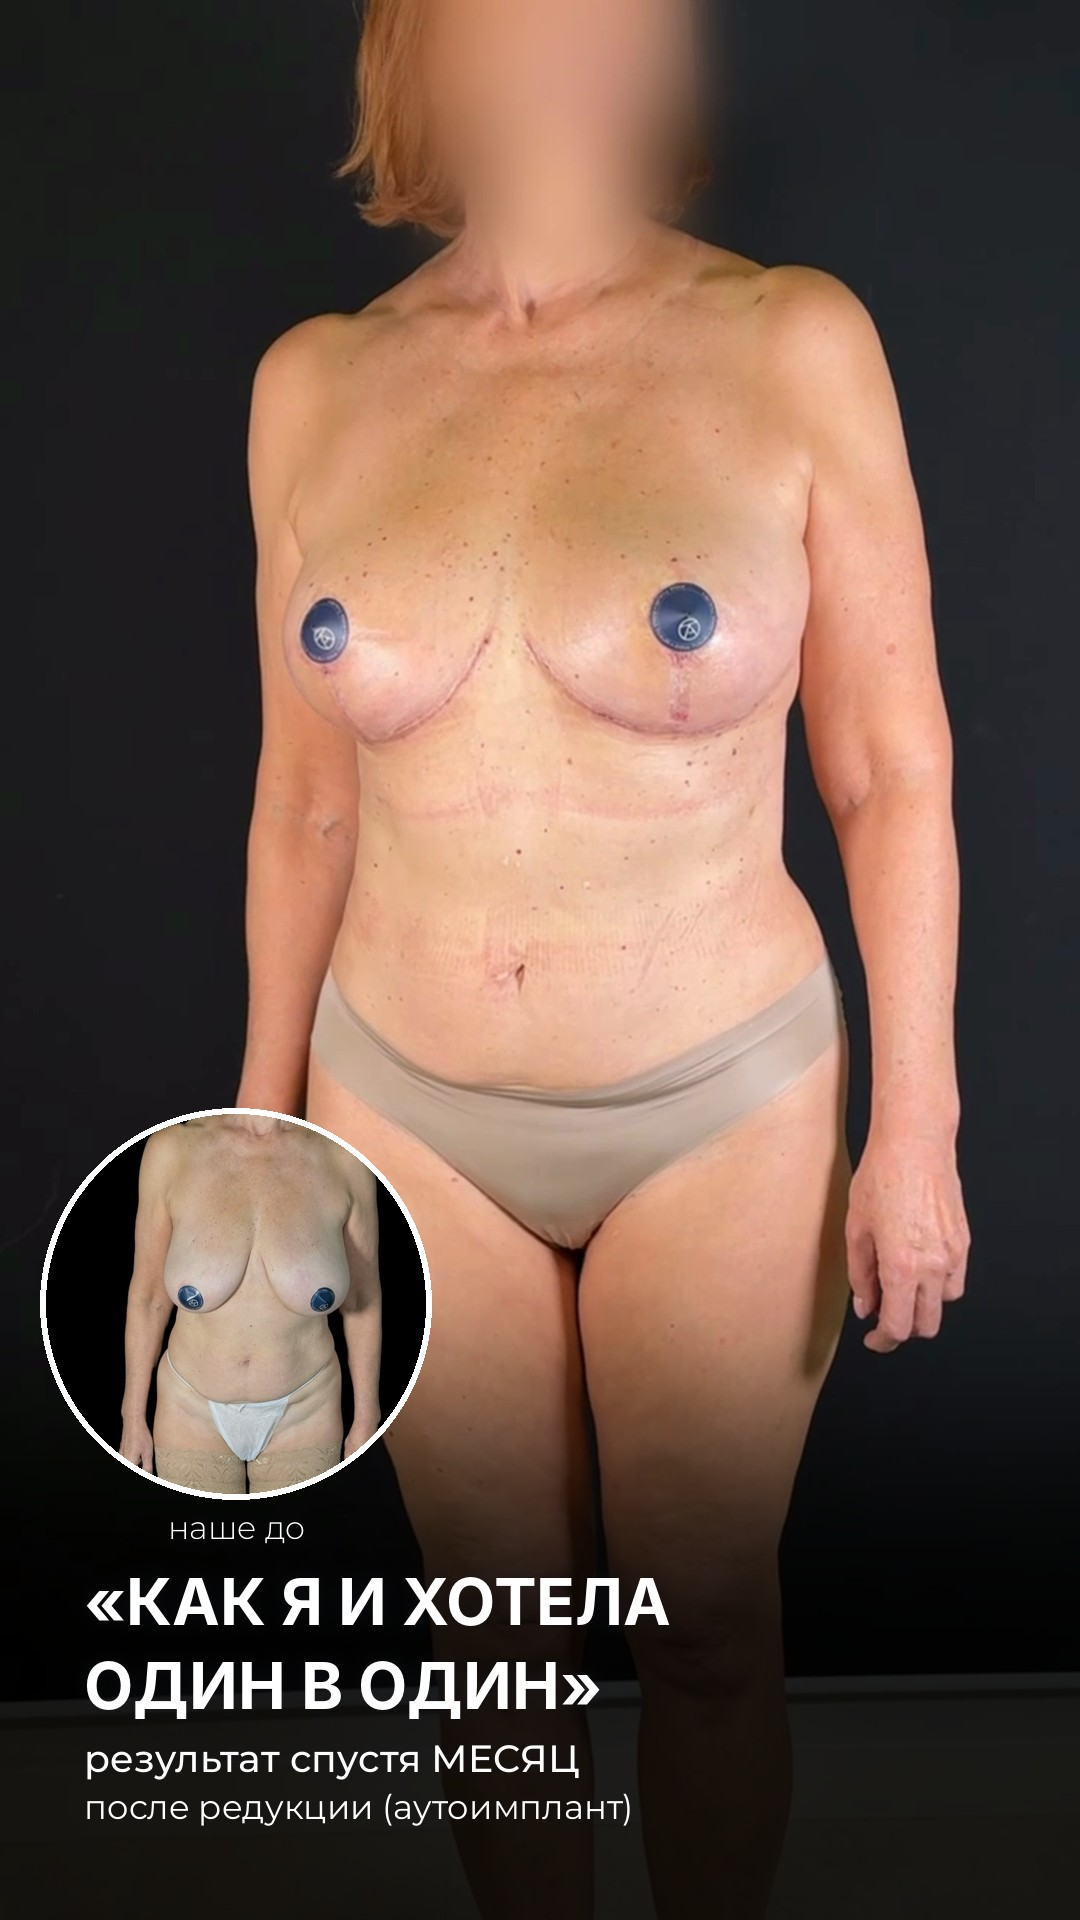
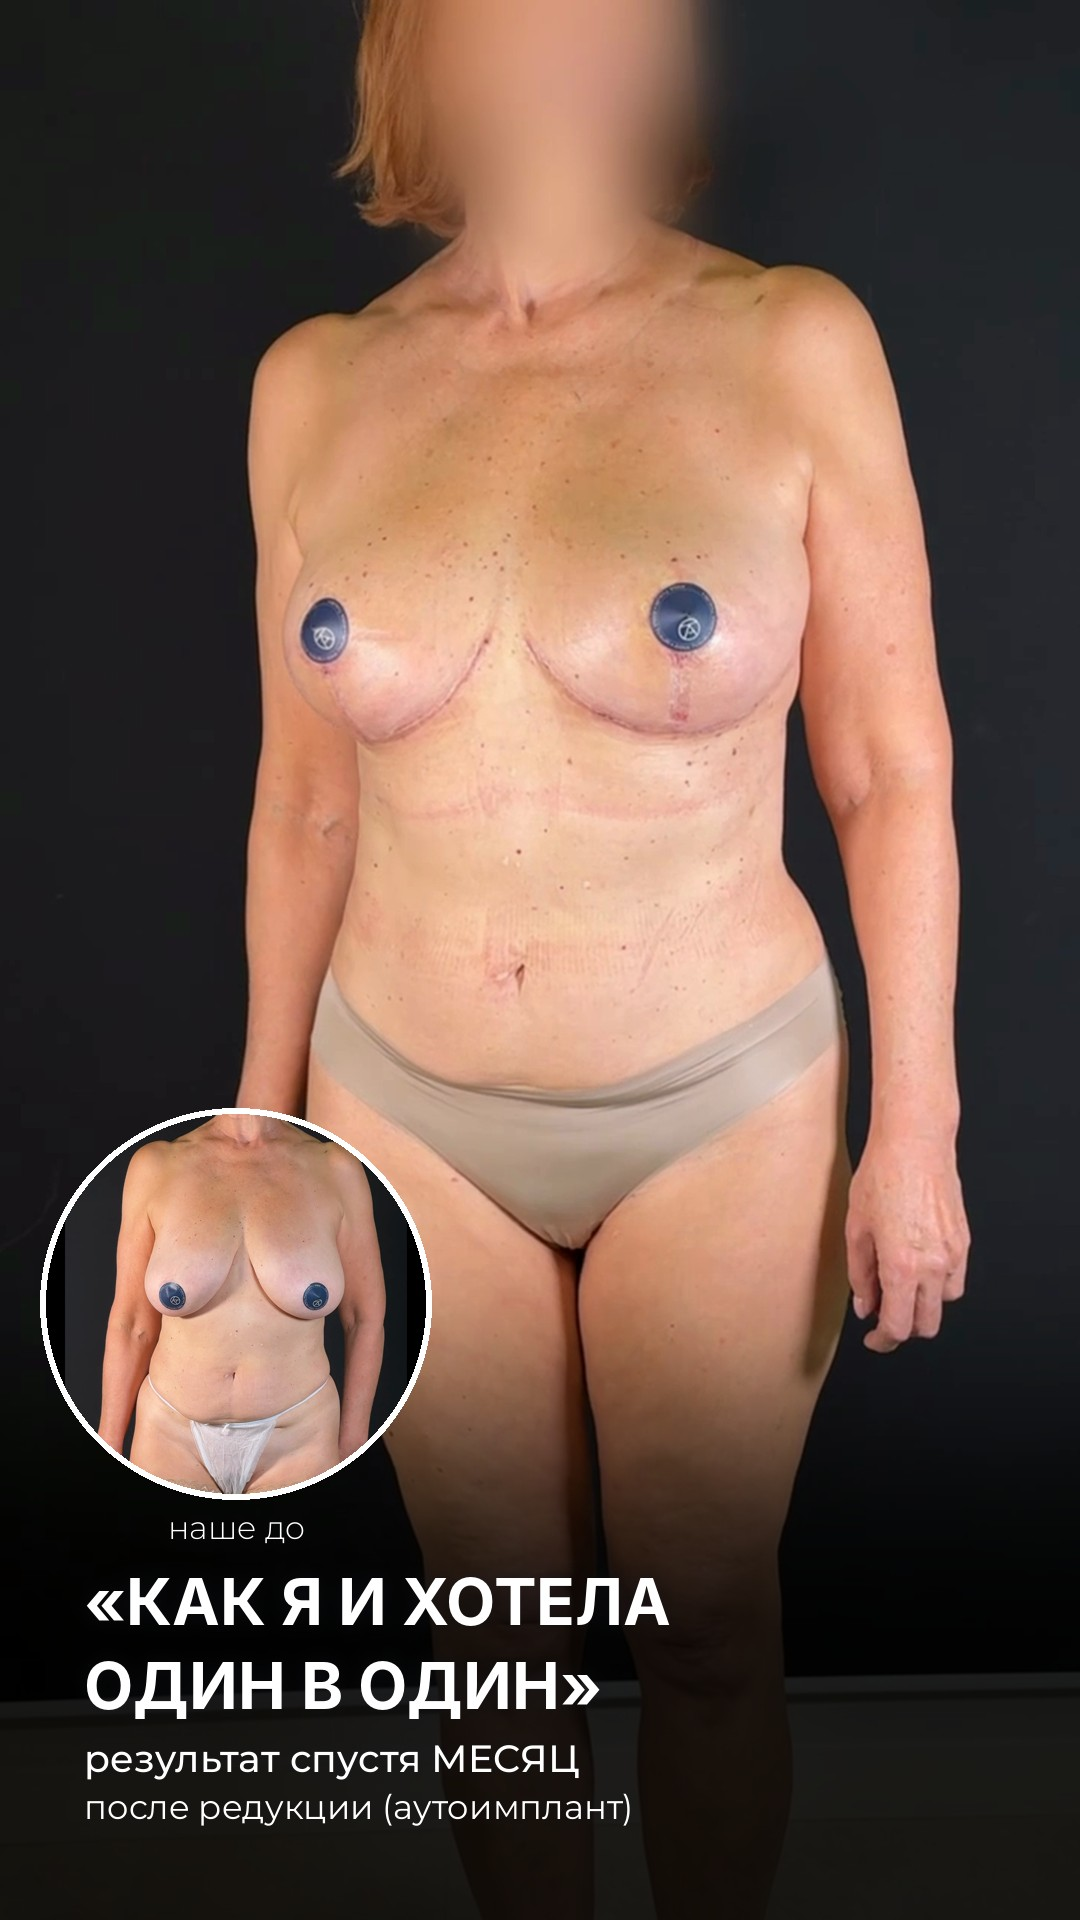
Reduction one-month stories: turning before video in the circle, surgeon video with the thesis, slider neck to knees on the whole screen
Claude-Session: https://claude.ai/code/session_01DoBoRz2HUe4yvMBz6dWv4L

Changed region(s): [[0.0611, 0.5625, 0.3972, 0.7812]]

diff --git a/tools/stories_reduction_month.py b/tools/stories_reduction_month.py
@@ -81,29 +81,31 @@ def s1():
     top = H - 90 - sum(s for _, _, s in lines)
     if not NOTEXT: shadowed_text(lines, MARGIN, top, ly)
     shade = fade(top + 40, 380, 0.85) if not NOTEXT else np.zeros((H, 1, 1), np.float32)
-    # «наше до»: low on the left, above the text. The before body turns with her: front, then 3/4, then side (the
-    # clinic's before photos; 3/4 and side mirrored, she turns her right side to the camera here)
+    # «наше до»: low on the left, above the text: the before video (IMG_0713) in the circle, turning with her.
+    # Her angles: here front 0-4 s, side at 9 s, back at 13.5 s (abs 17.5 / 26.5 / 31 s of IMG_2047);
+    # in IMG_0713 front 9.6-10.4 s, side 16.7 s, back 21.5 s -> piecewise-linear time map
     D = 380; R = D // 2 + 6
-    views = [photo("IMG_9150.PNG").crop((115, 1255, 1115, 2255)),
-             ImageOps.mirror(photo("IMG_9151.PNG").crop((-45, 1255, 955, 2255))),
-             ImageOps.mirror(photo("IMG_9152.PNG").crop((170, 1255, 1170, 2255)))]
-    m = Image.new("L", (D, D), 0); ImageDraw.Draw(m).ellipse((0, 0, D - 1, D - 1), fill=255)
-    rings = []
-    for v in views:
-        c = Image.new("RGBA", (D + 12, D + 12), (0, 0, 0, 0)); ImageDraw.Draw(c).ellipse((0, 0, D + 11, D + 11), fill=WHITE + (255,))
-        ph = v.resize((D, D), Image.LANCZOS).convert("RGBA"); ph.putalpha(m); c.alpha_composite(ph, (6, 6))
-        rings.append(np.asarray(c, np.float32) / 255)
+    raw = subprocess.run(["ffmpeg", "-v", "error", "-i", os.path.join(DRIVE, "IMG_0713.MOV"),
+                          "-vf", f"crop=2400:2400:-120:300,scale={D}:{D},fps={FPS}", "-f", "rawvideo", "-pix_fmt", "rgb24", "-"],
+                         capture_output=True).stdout
+    if not raw:                                             # crop larger than the frame: pad first
+        raw = subprocess.run(["ffmpeg", "-v", "error", "-i", os.path.join(DRIVE, "IMG_0713.MOV"),
+                              "-vf", f"pad=2400:ih:120:0,crop=2400:2400:0:300,scale={D}:{D},fps={FPS}", "-f", "rawvideo",
+                              "-pix_fmt", "rgb24", "-"], capture_output=True).stdout
+    bvid = np.frombuffer(raw, np.uint8).reshape(-1, D, D, 3)
+    MAP = [(0.0, 9.6), (4.0, 10.4), (9.0, 16.7), (13.5, 21.5), (15.6, 23.6)]
+    ring = Image.new("RGBA", (D + 12, D + 12), (0, 0, 0, 0)); ImageDraw.Draw(ring).ellipse((0, 0, D + 11, D + 11), fill=WHITE + (255,))
+    ring = np.asarray(ring, np.float32) / 255
+    m = Image.new("L", (D, D), 0); ImageDraw.Draw(m).ellipse((0, 0, D - 1, D - 1), fill=255); m = np.asarray(m, np.float32)[..., None] / 255
     ccx, ccy = 40, (top - 64 - (D + 12)) if not NOTEXT else H - 120 - (D + 12)
     if not NOTEXT:
         f32 = mont(32, 300); shadowed_text([("наше до", f32, 44)], ccx + R - int(f32.getlength("наше до")) // 2, ccy + D + 18, ly)
-    TURN = [(4.3, 5.3, 0, 1), (8.0, 9.0, 1, 2)]           # seconds of this clip: front -> 3/4 (abs 22-23 s), 3/4 -> side (25.5-26.5 s)
 
     def ring_at(t):
-        k = 0
-        for a, b, i0, i1 in TURN:
-            if t >= b: k = i1
-            elif t > a: q = (t - a) / (b - a); return rings[i0] * (1 - q) + rings[i1] * q
-        return rings[k]
+        tb = np.interp(t, [a for a, _ in MAP], [b for _, b in MAP])
+        fr = bvid[min(int(tb * FPS), len(bvid) - 1)].astype(np.float32) / 255
+        out = ring.copy(); out[6:6 + D, 6:6 + D, :3] = out[6:6 + D, 6:6 + D, :3] * (1 - m) + fr * m
+        return out
     ov = np.asarray(ly, np.float32) / 255; oa = ov[..., 3:4]
     p = subprocess.Popen(["ffmpeg", "-v", "error", "-i", src, "-vf", f"scale={W}:{H}:flags=lanczos,fps={FPS}", "-f", "rawvideo",
                           "-pix_fmt", "rgb24", "-"], stdout=subprocess.PIPE)
@@ -129,21 +131,37 @@ def s1():
 
 # ---------------- story 2: the thesis ----------------
 def s_thesis():
-    """the way to the dream began with this before: the before body on top, the autoimplant method in a few key words"""
-    hb = ImageFont.truetype(BOLD, 52); b = mont(32, 400); bm = mont(32, 600)
-    lines = [("ПУТЬ К МЕЧТЕ", hb, 62), ("НАЧАЛСЯ С ТАКОГО ДО", hb, 80),
-             ("Гигантомастия: от яремной вырезки до соска 32 см.", b, 56),
-             ("Уменьшение груди методом аутоимпланта", bm, 44), ("(метод Рибейро):", bm, 54),
-             ("из собственных тканей нижней части груди", b, 42), ("формируем «аутоимплант» и поднимаем его вверх.", b, 42),
-             ("Он наполняет верхний полюс и держит форму,", b, 42), ("красивый объём без силиконового импланта.", b, 54),
-             ("Сосок с ареолой выше, форма симметричная,", b, 42), ("ткани сохраняем по максимуму.", b, 42)]
-    top = H - 80 - sum(s for _, _, s in lines)
-    body = photo("IMG_9150.PNG").crop((115, 1255, 1115, 2343))                 # the before: neck to the stockings
-    ah = top - 60 - 60; sc = ah / body.height; body = body.resize((int(body.width * sc), ah), Image.LANCZOS)
-    cv = Image.new("RGB", (W, H), (0, 0, 0)); cv.paste(body, ((W - body.width) // 2, 60)); cv = cv.convert("RGBA")
+    """the surgeon at the marking (her own words: gigantomastia, 32 cm, the Ribeiro / autoimplant method) with the thesis
+    low under the usual fade; the clinic's word captions of that video stay"""
+    src = os.path.join(DRIVE, "surgeon_crop.mp4"); out = os.path.join(OUT, "02_put_k_mechte.mp4"); tmp = out + ".v.mp4"
+    dur = float(subprocess.run(["ffprobe", "-v", "error", "-show_entries", "format=duration", "-of", "csv=p=0", src],
+                               capture_output=True, text=True).stdout)
+    hb = ImageFont.truetype(BOLD, 52); b = mont(31, 400); bm = mont(31, 600)
+    lines = [("ПУТЬ К МЕЧТЕ", hb, 62), ("НАЧАЛСЯ С ТАКОГО ДО", hb, 78),
+             ("Гигантомастия: от яремной вырезки до соска 32 см.", b, 54),
+             ("Уменьшение груди методом аутоимпланта", bm, 42), ("(метод Рибейро):", bm, 52),
+             ("из собственных тканей нижней части груди", b, 41), ("формируем «аутоимплант» и поднимаем его вверх.", b, 41),
+             ("Он наполняет верхний полюс и держит форму,", b, 41), ("красивый объём без силиконового импланта.", b, 52),
+             ("Сосок с ареолой выше, форма симметричная,", b, 41), ("ткани сохраняем по максимуму.", b, 41)]
+    top = H - 70 - sum(s for _, _, s in lines)
     ly = Image.new("RGBA", (W, H), (0, 0, 0, 0)); shadowed_text(lines, MARGIN, top, ly)
-    p_ = pill("наше до", 28); ly.alpha_composite(p_, ((W - body.width) // 2 + 24, 84))
-    cv.alpha_composite(ly); out = os.path.join(OUT, "02_put_k_mechte.jpg"); cv.convert("RGB").save(out, quality=94); print("wrote", out)
+    ov = np.asarray(ly, np.float32) / 255; oa = ov[..., 3:4]; shade = fade(top + 40, 420, 0.88)
+    p = subprocess.Popen(["ffmpeg", "-v", "error", "-i", src, "-vf", f"scale={W}:{H},fps={FPS}", "-f", "rawvideo", "-pix_fmt", "rgb24", "-"],
+                         stdout=subprocess.PIPE)
+    enc = subprocess.Popen(["ffmpeg", "-v", "error", "-y", "-f", "rawvideo", "-pix_fmt", "rgb24", "-s", f"{W}x{H}", "-r", str(FPS), "-i", "-",
+                            "-c:v", "libx264", "-crf", "18", "-preset", "medium", "-pix_fmt", "yuv420p", tmp], stdin=subprocess.PIPE)
+    last = None
+    for i in range(int(round(dur * FPS))):
+        bb = p.stdout.read(W * H * 3)
+        if len(bb) == W * H * 3: last = np.frombuffer(bb, np.uint8).reshape(H, W, 3)
+        fr = last.astype(np.float32) / 255 * (1 - shade); fr = fr * (1 - oa) + ov[..., :3] * oa
+        o = (fr * 255).astype(np.uint8); enc.stdin.write(o.tobytes())
+        if i == int(6 * FPS): Image.fromarray(o).save(out[:-4] + ".jpg", quality=90)
+    p.kill(); enc.stdin.close(); enc.wait()
+    subprocess.run(["ffmpeg", "-v", "error", "-y", "-i", tmp, "-i", src, "-map", "0:v", "-map", "1:a", "-c:v", "copy",
+                    "-af", f"loudnorm=I=-16:TP=-1.5,afade=t=out:st={dur - 0.4:.2f}:d=0.4", "-c:a", "aac", "-b:a", "160k",
+                    "-shortest", "-movflags", "+faststart", out], check=True)
+    os.remove(tmp); print("wrote", out, flush=True)
 
 
 # ---------------- story 3 ----------------
@@ -156,7 +174,7 @@ def fit_band(img, area=AREA):
     cv = Image.new("RGB", (W, H), (0, 0, 0)); cv.paste(im, ((W - im.width) // 2, area[0])); return np.asarray(cv, np.float32) / 255
 
 
-BODY = (110, 1663)            # the before / after bodies large: neck to mid-thigh across the whole width; button room below
+BODY = (0, H)                 # the before / after bodies on the whole screen: neck down to the knees
 
 
 def month_collage(after_name, after_crop, week_name):
@@ -184,8 +202,13 @@ def s2():
     out = os.path.join(OUT, f"03_do_posle{SUF}.mp4"); tmp = out + ".v.mp4"
     # same framing for both: neck to fingertips (before: neck 1270 .. fingertips 2190 in IMG_9150;
     # after: neck 70 .. fingertips 1540 in IMG_2029 -> scale 0.626), body centred
-    before = fit_band(photo("IMG_9150.PNG").crop((235, 1250, 995, 2343)), BODY)        # all of the before photo, arms in
-    after = fit_band(on_black("IMG_2029.JPG").crop((183, 38, 1397, 1784)), BODY)        # the same framing /0.626
+    # before: the frontal frame of the before video (IMG_0713 at 10.0 s: neck 384, fingertips 2750, axis x 1080), from
+    # under the chin to the bottom of the frame (the knees); after: IMG_2029 (neck 70, fingertips 1540, axis 790) at /1.61
+    fb = subprocess.run(["ffmpeg", "-v", "error", "-ss", "10.0", "-i", os.path.join(DRIVE, "IMG_0713.MOV"), "-frames:v", "1",
+                         "-f", "image2pipe", "-vcodec", "png", "-"], capture_output=True).stdout
+    import io
+    before = fit_band(Image.open(io.BytesIO(fb)).convert("RGB").crop((93, 330, 2067, 3840)), BODY)
+    after = fit_band(photo("IMG_2029.JPG").crop((177, 37, 1403, 2217)), BODY)
     labs = {k: np.asarray(pill(k, 30), np.float32) / 255 for k in ["до", "после"]}
     week = [photo(n) for n in ["IMG_9150.PNG", "IMG_9151.PNG", "IMG_9152.PNG"]]
     month = [month_collage("IMG_2029.JPG", (78, 60, 1502, 1500), "IMG_9150.PNG"),
@@ -208,13 +231,13 @@ def s2():
             xs = int(W * p)                                       # the slider moves left -> right, the after takes over
             fr = before.copy(); fr[:, :xs] = after[:, :xs]
             if 0 < p < 1:                                         # the handle: thin white line + a ring with arrows
-                fr[BODY[0]:BODY[1], max(xs - 2, 0):xs + 2] = 1.0
+                fr[BODY[0]:BODY[1], max(xs - 2, 0):xs + 2] = 1.0              # the slider line, top to bottom
                 ring = Image.new("RGBA", (84, 84), (0, 0, 0, 0)); d = ImageDraw.Draw(ring)
                 d.ellipse((2, 2, 81, 81), outline=WHITE + (255,), width=4, fill=(0, 0, 0, 90))
                 d.polygon([(30, 42), (40, 32), (40, 52)], fill=WHITE + (255,)); d.polygon([(54, 42), (44, 32), (44, 52)], fill=WHITE + (255,))
                 blit(fr, np.asarray(ring, np.float32) / 255, min(max(xs - 42, 0), W - 84), (BODY[0] + BODY[1]) // 2 - 42)
-            if p < 1 and not NOTEXT: blit(fr, labs["до"], W - 40 - labs["до"].shape[1], BODY[0] + 24)
-            if p > 0 and not NOTEXT: blit(fr, labs["после"], 40, BODY[0] + 24)
+            if p < 1 and not NOTEXT: blit(fr, labs["до"], W - 40 - labs["до"].shape[1], BODY[0] + 60)
+            if p > 0 and not NOTEXT: blit(fr, labs["после"], 40, BODY[0] + 60)
         else:
             tc = t - (T_B + T_S + T_A); k = min(int(tc // T_C), len(slides) - 1); lt = tc - k * T_C
             fr = slides[k].copy()

diff --git a/stories_reduction_month/README.md b/stories_reduction_month/README.md
@@ -5,9 +5,9 @@
 
 | № | Файл | Что |
 |---|------|-----|
-| 1 | 01_odin_v_odin.mp4 | видео через месяц (IMG_2047) с 0:17,5 — начинается с прямого ракурса, лицо размыто, голос мягко изменён; кружок «наше до» слева внизу над текстом: тело ДО поворачивается вместе с ней (прямо → 3/4 → сбоку, фото клиники; 3/4 и бок отзеркалены, т.к. на видео она поворачивается правым боком); «КАК Я И ХОТЕЛА ОДИН В ОДИН» / результат спустя МЕСЯЦ / после редукции (аутоимплант) |
-| 2 | 02_put_k_mechte.jpg | тезис: ПУТЬ К МЕЧТЕ НАЧАЛСЯ С ТАКОГО ДО; гигантомастия (32 см от яремной вырезки до соска, из видео разметки IMG_6972); метод аутоимпланта (Рибейро) по ключевым словам |
-| 3 | 03_do_posle.mp4 | ДО → ползунок → ПОСЛЕ крупно, на всю ширину (всё фото ДО: от шеи до середины бедра, руки целиком), затем коллажи на весь экран: «через неделю» и «через месяц»; внизу место под кнопку |
+| 1 | 01_odin_v_odin.mp4 | видео через месяц (IMG_2047) с 0:17,5 — с прямого ракурса, лицо размыто, голос мягко изменён; кружок «наше до» слева внизу: видео ДО (IMG_0713), где она так же поворачивается — время подогнано, чтобы прямо / бок / спина совпадали; «КАК Я И ХОТЕЛА ОДИН В ОДИН» / результат спустя МЕСЯЦ / после редукции (аутоимплант) |
+| 2 | 02_put_k_mechte.mp4 | видео разметки с хирургом (IMG_6972, 0–31 с, голос хирурга; верх кадра обрезан, чтобы не было лица пациентки) + тезис: ПУТЬ К МЕЧТЕ НАЧАЛСЯ С ТАКОГО ДО, гигантомастия 32 см, метод аутоимпланта (Рибейро) |
+| 3 | 03_do_posle.mp4 | ДО (кадр анфас из IMG_0713) → ползунок → ПОСЛЕ (IMG_2029) на весь экран от шеи до колен — дальше видео ДО не снято; затем коллажи «через неделю» и «через месяц» на весь экран |
 
 `kollazh_mesyac_1..3.jpg` — новые коллажи «Результат спустя месяц после операции» (шрифт и размер подписи как у коллажей клиники — Inter SemiBold): сверху фото через месяц (IMG_2029 / 2045 / 2042,
 фон вырезан на чёрный rembg, обрезано под подбородком), снизу то же фото ДО, что в коллажах клиники.
